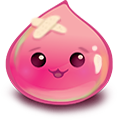
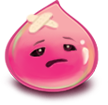
Updated slimes sprites.

Changed region(s): [[0.0278, 0.0, 0.9722, 0.9143], [0.5, 0.2, 0.5833, 0.2857], [0.1944, 0.5714, 0.25, 0.6286]]

diff --git a/src/css/App.css b/src/css/App.css
@@ -27,19 +27,21 @@ button {
 
 .slime {
     position: absolute;
-    margin-left: 38px;
+    margin-left: 52px;
 }
 
 .slime_img {
-    height: 120px;
-    width: 118px;
+    height: 105px;
+    width: 103px;
     background: url(../img/pink_slime.png) no-repeat;
 }
 
 .slime_img.injured {
+    height: 105px;
+    width: 108px;
     background: url(../img/inured_pink_slime.png) no-repeat;
-    -webkit-transition: background-image 0.2s ease-in-out;
-    transition: background-image 0.2s ease-in-out;
+    -webkit-transition: background-image 0.5s ease-in-out;
+    transition: background-image 0.5s ease-in-out;
     cursor: url("../img/heal.png"), cell;
 }
 
